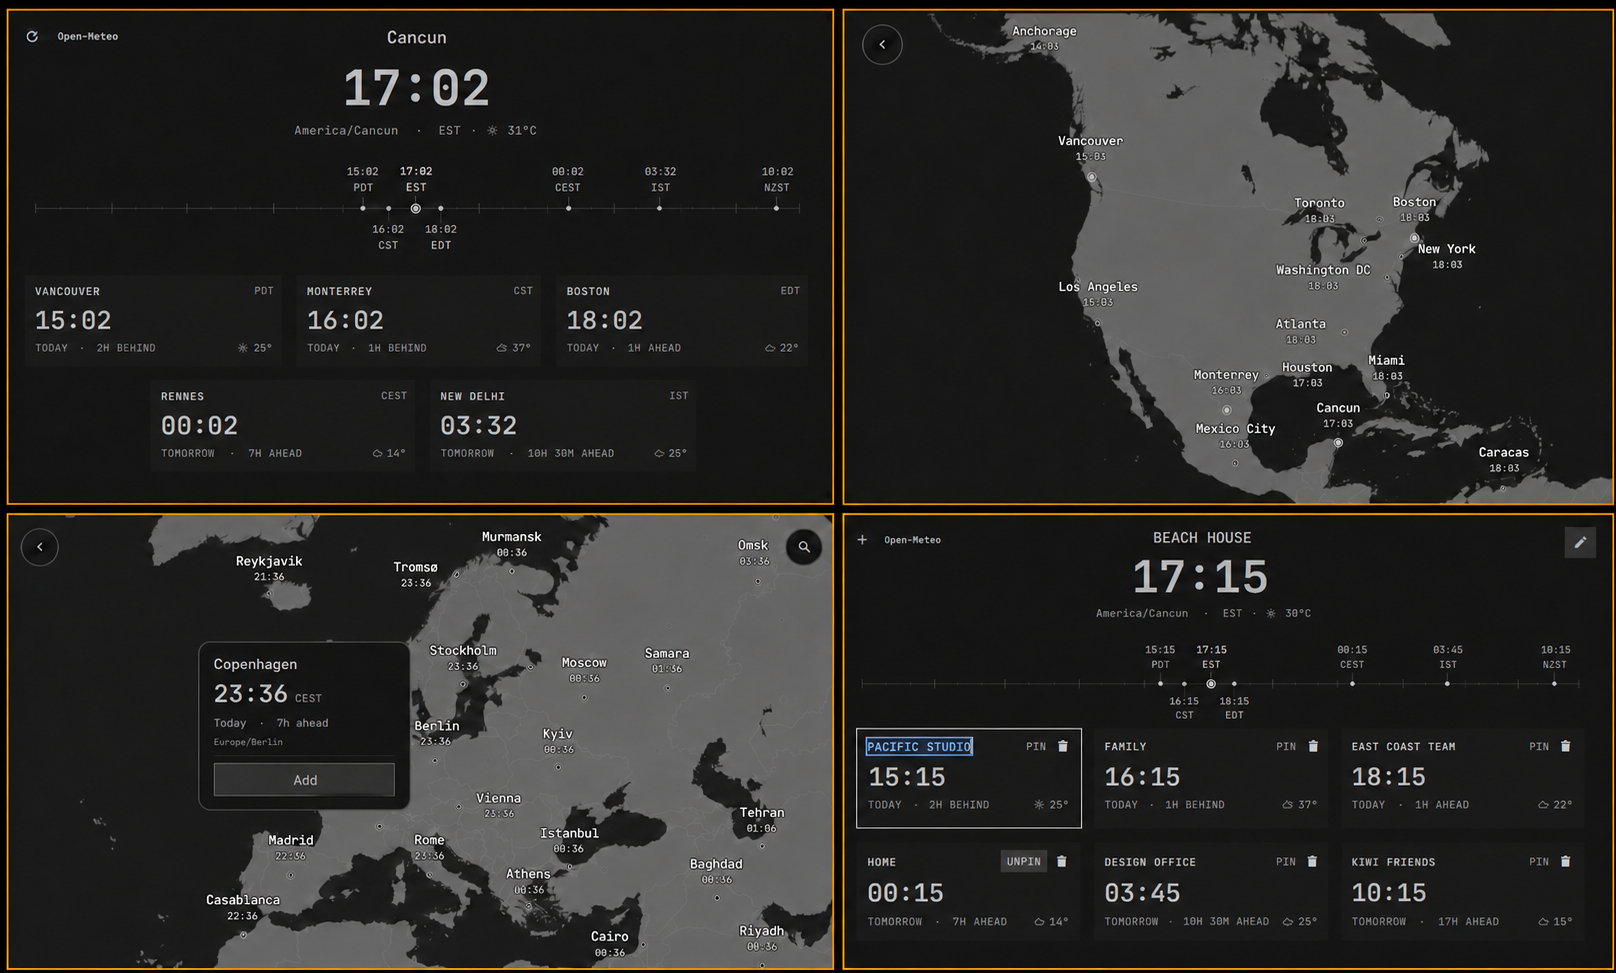
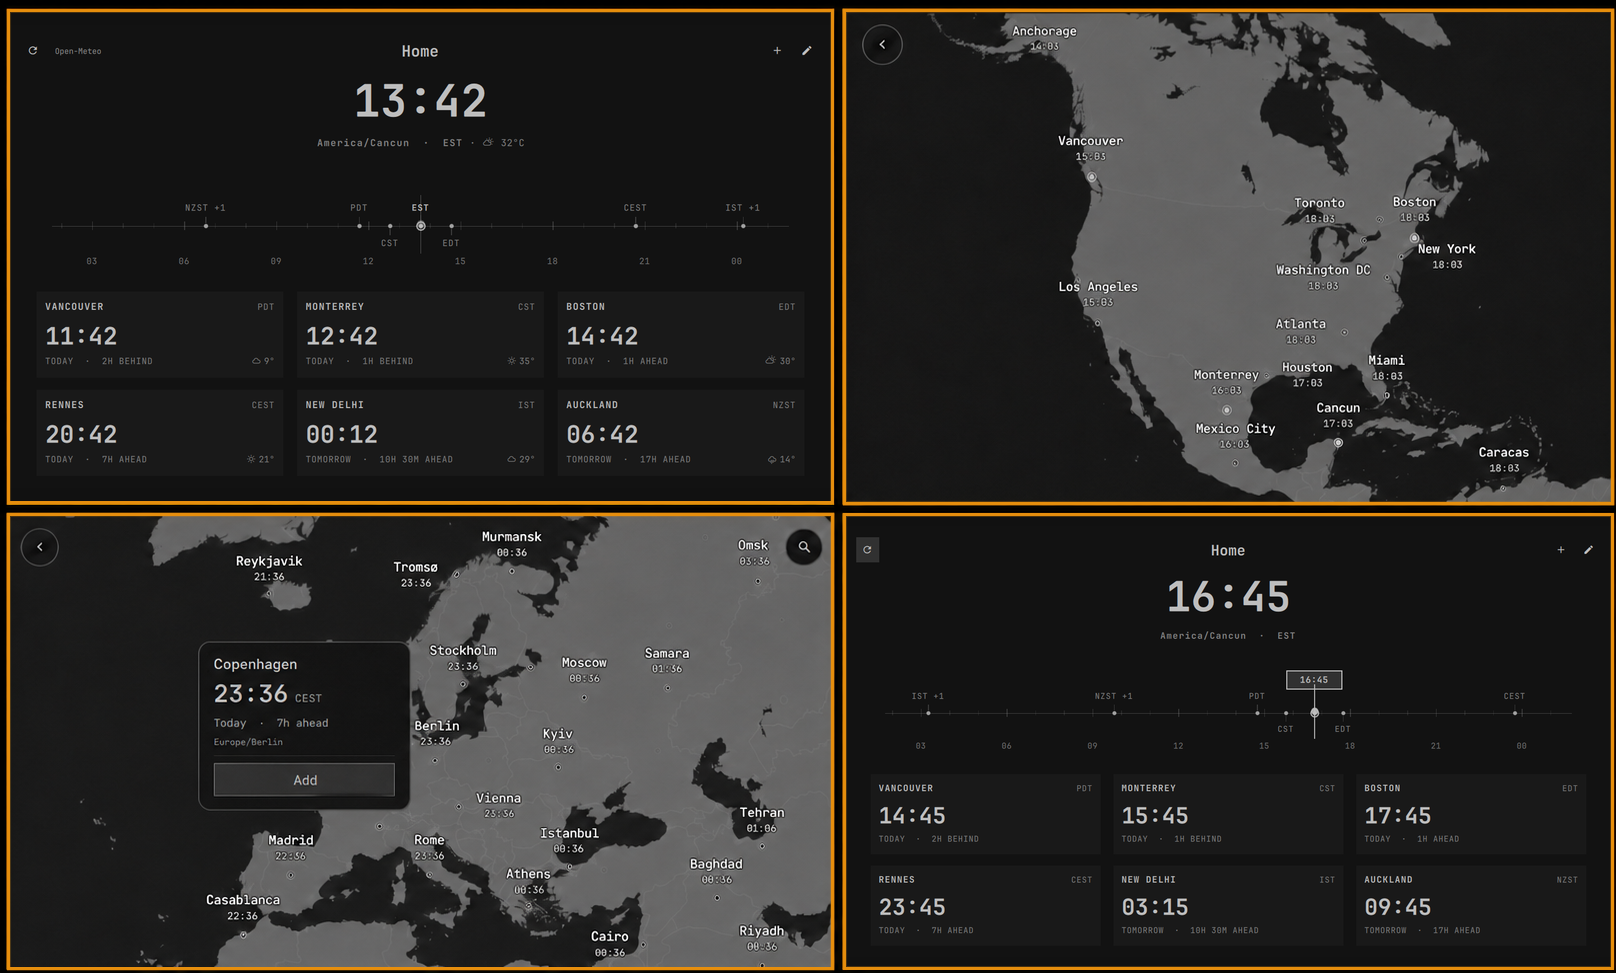
Refresh preview for interactive time rail

diff --git a/README.md b/README.md
@@ -1,13 +1,13 @@
 # Omarchy World Clock
 
-A native Omarchy Quattro world clock. Open the bar widget for current time and weather across your places, add new timezones, pin one to be always visible, or enter any time to convert from one timezone to the others.
+A native Omarchy Quattro world clock. Open the bar widget for current time and weather across your places, add new timezones, pin one to be always visible, or scrub and enter times to convert from one timezone to the others.
 
 This repository is the installable root of the native Quattro plugin
 `io.github.olivoil.world-clock`. It is listed in the independent community
 [Omarchy Plugin Marketplace](https://omarchyplugins.com/plugin.html?id=io.github.olivoil.world-clock).
 
 <p>
-  <img src="preview.png" alt="Omarchy World Clock panel with a pinned home time, proportional timezone timeline, and six location clocks" width="960">
+  <img src="preview.png" alt="Omarchy World Clock live panel, interactive time scrubber, globe, and add-location flow" width="960">
 </p>
 
 ## Install
@@ -62,6 +62,8 @@ the AUR package is no longer required.
   to edit it, then press **Enter** to save it or **Escape** to cancel. Submit an
   empty name to restore the location's default place name.
 - Pin one place to keep its current time always visible beside the bar icon.
+- Hover across the time rail to compare every place at that moment, then click
+  to keep the selected time.
 - Select a displayed time and enter another time to convert the same instant
   across every visible place.
 - Use **plus** to open the full-panel globe. Start typing or select **search**
@@ -71,7 +73,7 @@ the AUR package is no longer required.
 ## Features
 
 - Up to nine non-local places in a compact three-column view.
-- A proportional timezone timeline with day and offset context.
+- An interactive, DST-aware time scrubber with day and offset context.
 - Optional current temperature and conditions for every place with a known
   coordinate.
 - Multiple named places in the same timezone, such as Boston and New York.
